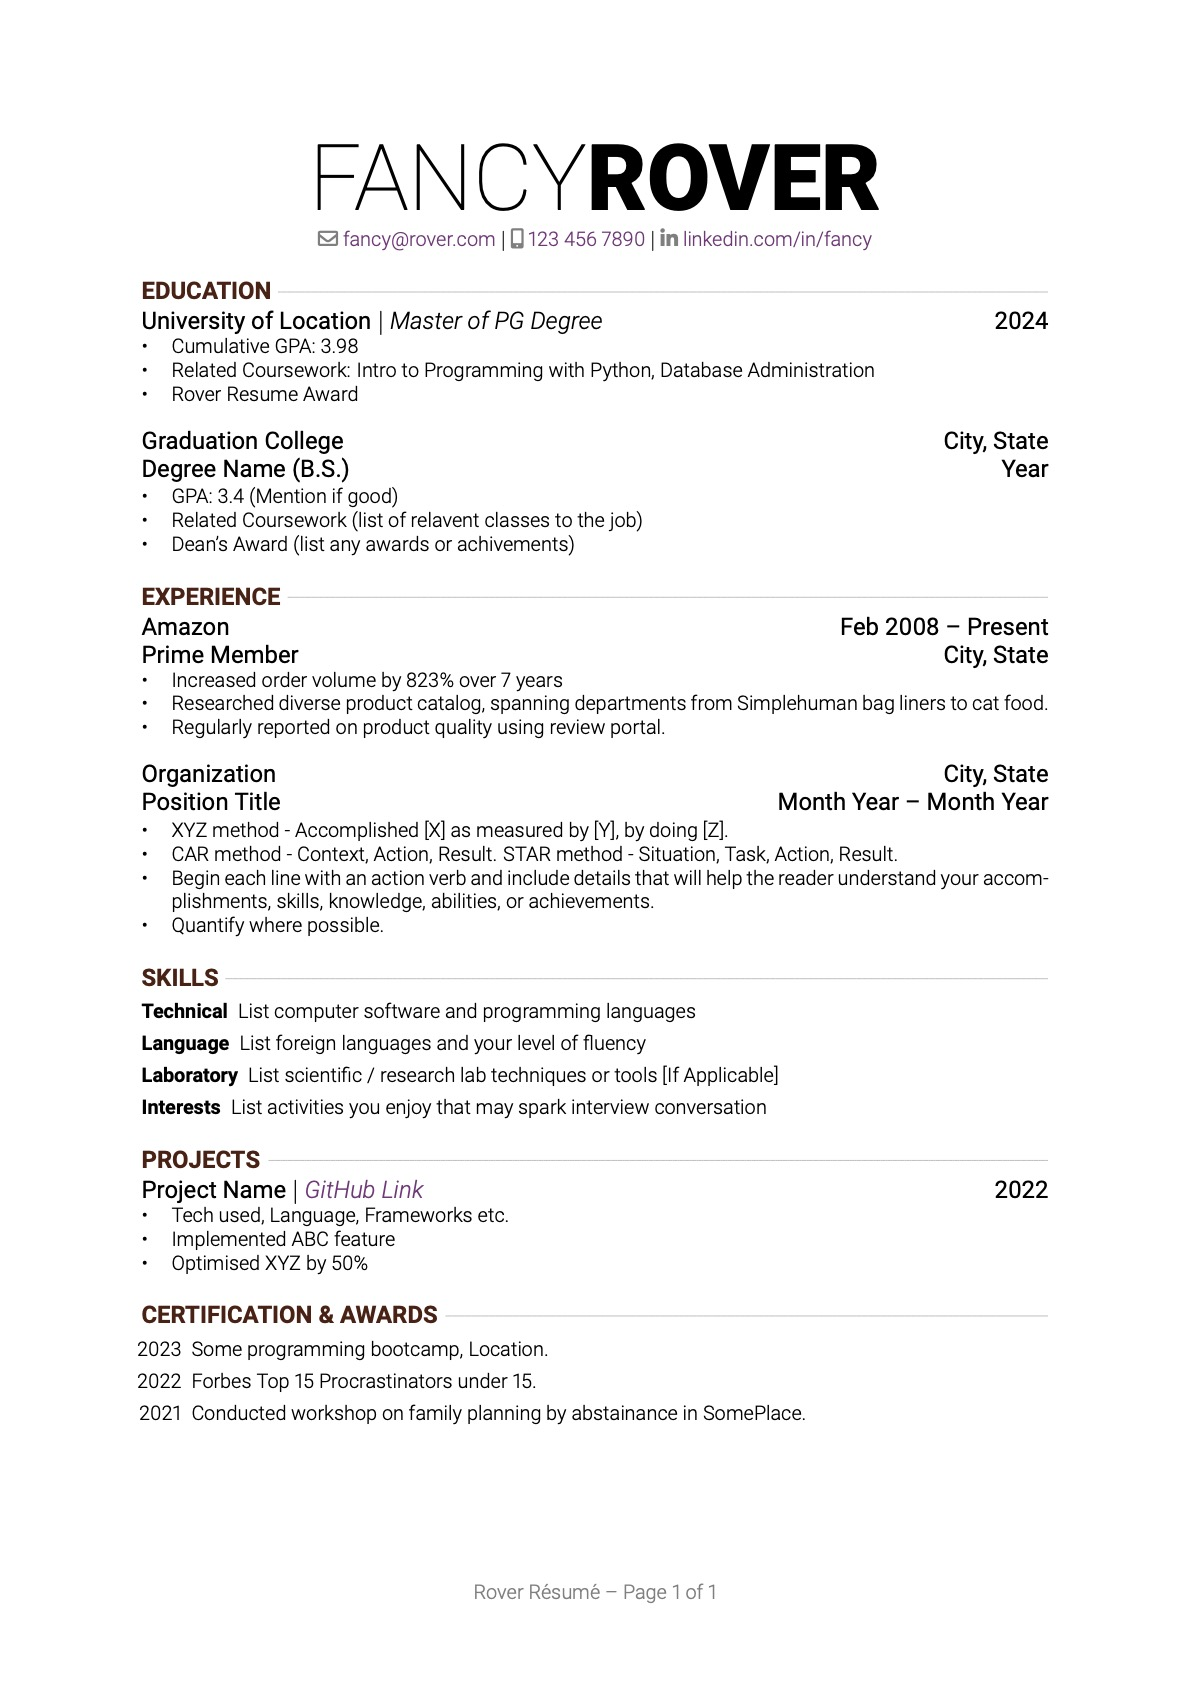
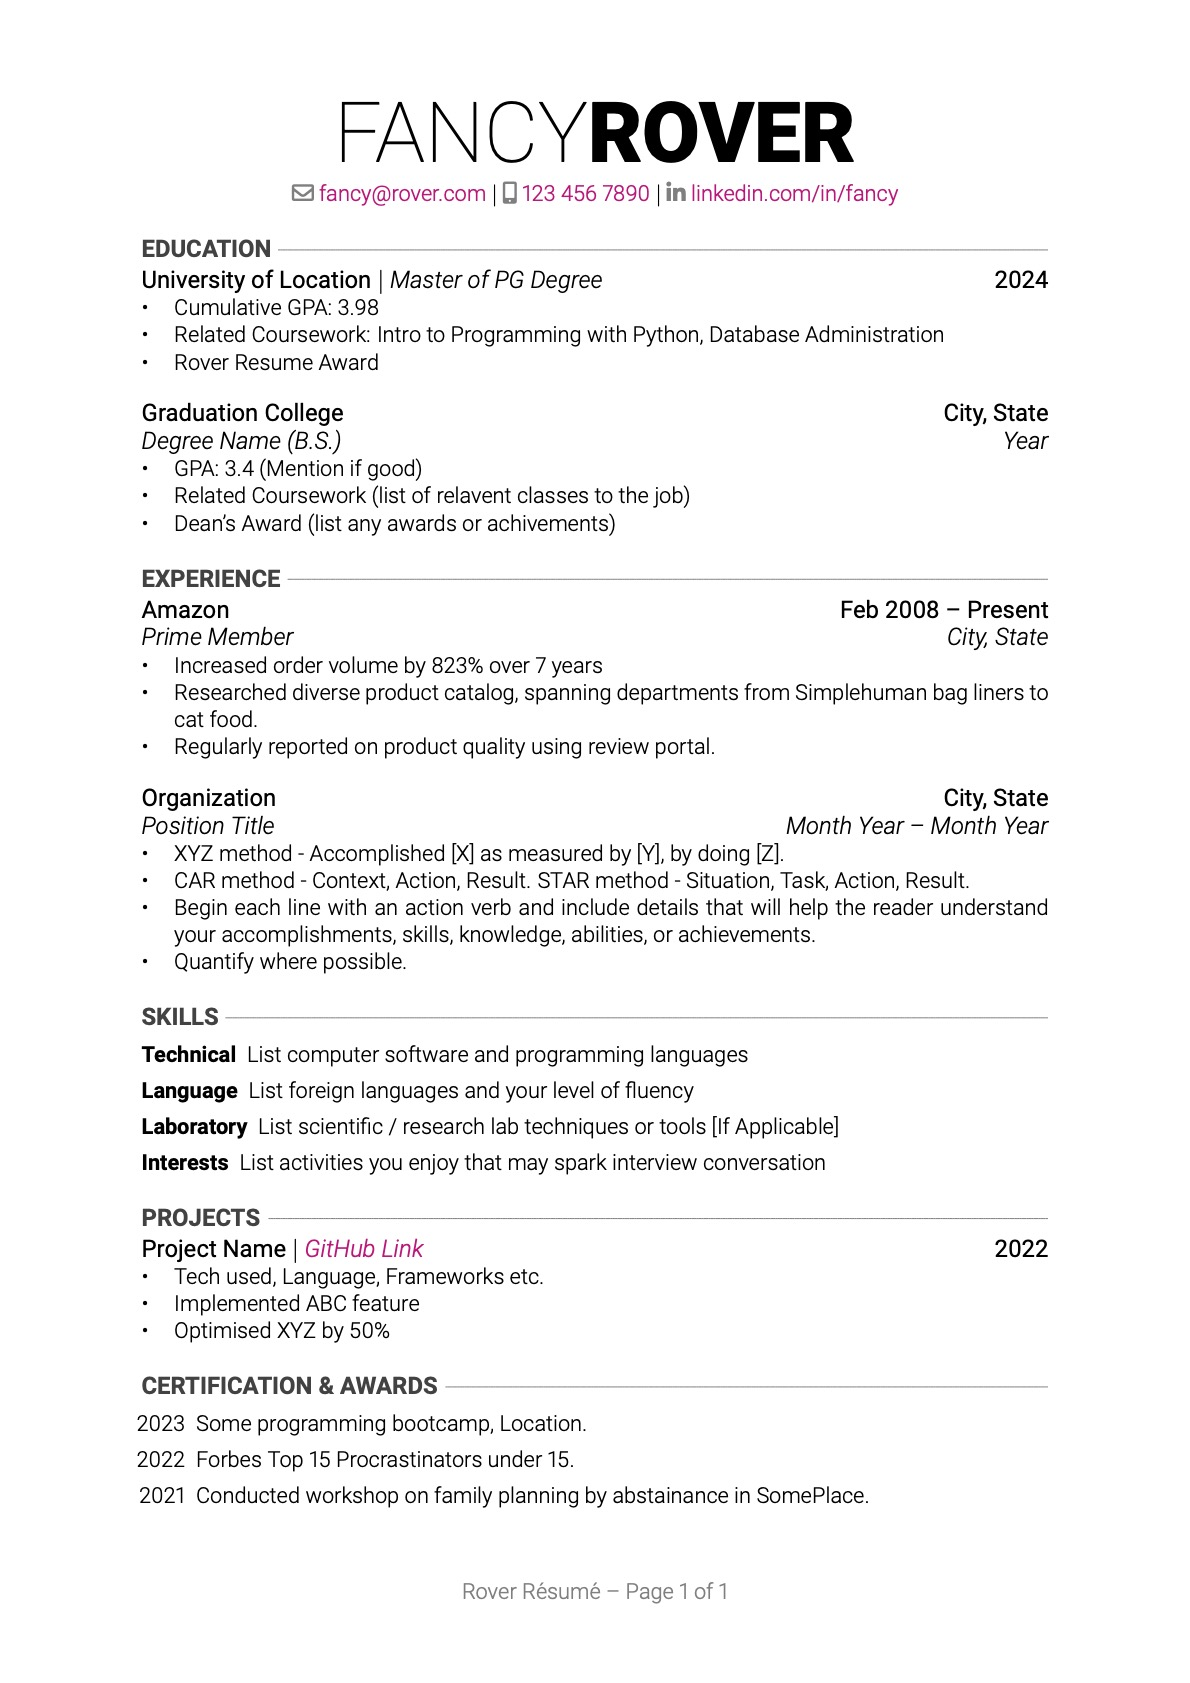
Updated colours

diff --git a/templates/fancy rover/fancy-rover.tex b/templates/fancy rover/fancy-rover.tex
@@ -1,18 +1,23 @@
-\documentclass{article}
+%-------------------------
+% Rover Resume (Fancy) Template
+% Link: https://github.com/subidit/rover-resume
+%------------------------
 
-\usepackage[sfdefault, light]{roboto}
+\documentclass[11pt]{article}
+
+\usepackage[sfdefault, light]{roboto} % https://tug.org/FontCatalogue/
 
 \usepackage{geometry}
 \geometry{
 a4paper,
-top=1in,
+top=1.8cm,
 bottom=1in,
 left=2.5cm,
 right=2.5cm
 }
 
-\setcounter{secnumdepth}{0}
-\pdfgentounicode=1
+\setcounter{secnumdepth}{0} % remove section numbering
+\pdfgentounicode=1 % make ATS friendly
 
 \usepackage{enumitem}
 \setlist[itemize]{
@@ -27,12 +32,12 @@ right=2.5cm
 \titlespacing{\subsection}{0pt}{*0}{*0}
 \titlespacing{\subsubsection}{0pt}{*0}{*0}
 % \titleformat{<command>}[<shape>]{<format>}{<label>}{<sec>}{<before-code>}[<after-code>]  
-\titleformat{\section}{\color{Sepia}\large\bfseries\uppercase}{}{}{\ruleafter}[\global\RemVStrue]
-\titleformat{\subsection}{\large\fontseries{semibold}\selectfont}{}{}{\rvs}
-\titleformat{\subsubsection}{\large\fontseries{semibold}\selectfont\itshape}{}{}{}
+\titleformat{\section}{\color{darkgray}\large\bfseries\uppercase}{}{}{\ruleafter}[\global\RemVStrue]
+\titleformat{\subsection}{\large\fontseries{m}\selectfont}{}{}{\rvs}
+\titleformat{\subsubsection}{\large\slshape}{}{}{}
 
 \usepackage{xhfill} 
-\newcommand\ruleafter[1]{#1~\xrfill[.5ex]{.5pt}[lightgray]} % add rule after title in .5 x-height 
+\newcommand\ruleafter[1]{#1~\xrfill[.5ex]{.5pt}[gray]} % add rule after title in .5 x-height 
 
 \newif\ifRemVS % remove vspace 
 \newcommand{\rvs}{
@@ -42,8 +47,8 @@ right=2.5cm
     \global\RemVSfalse
 }
 
-% \usepackage[dvipsnames, svgnames, x11names]{xcolor}
-\usepackage[dvipsnames]{xcolor}
+% \usepackage[dvipsnames, svgnames, x11names]{xcolor} 
+\usepackage[]{xcolor} % xcolor.pdf Sec.4 Colors by Name
 \colorlet{icnclr}{gray}
 % \colorlet [⟨type⟩]{⟨name⟩}[⟨num model⟩]{⟨color ⟩}
 % \definecolor[⟨type⟩]{⟨name⟩}{⟨model-list⟩}{⟨spec-list⟩}
@@ -53,7 +58,7 @@ right=2.5cm
 \usepackage[bookmarks=false]{hyperref} % [imp!]
 \hypersetup{ % https://en.wikibooks.org/wiki/LaTeX/Hyperlinks
     colorlinks=true,
-    urlcolor=Fuchsia,
+    % urlcolor=Fuchsia,
     pdftitle={My Resume},
 }
 
@@ -69,7 +74,7 @@ right=2.5cm
 
 %== HEADER ==%
 \begin{center}
-    {\fontsize{46}{36}\robotothin FANCY\robotoblack ROVER} \\ \medskip
+    {\fontsize{42}{36}\selectfont \robotothin FANCY\robotoblack ROVER} \\ \medskip
     {\color{icnclr}\faEnvelope[regular]} \href{mailto:hi@example.com}{fancy@rover.com} $|$ 
     {\color{icnclr}\faIcon{mobile-alt}} \href{tel:1234567890}{123 456 7890} $|$
     {\color{icnclr}\faLinkedinIn} \href{https://www.linkedin.com/in/}{linkedin.com/in/fancy}

diff --git a/templates/base rover/base-rover.tex b/templates/base rover/base-rover.tex
@@ -1,6 +1,6 @@
 %-------------------------
 % Rover Resume Template
-% Author : Subidit Nandy
+% Link: https://github.com/subidit/rover-resume
 %------------------------
 
 \documentclass[11pt]{article} % fontsize 10pt/11pt/12pt
